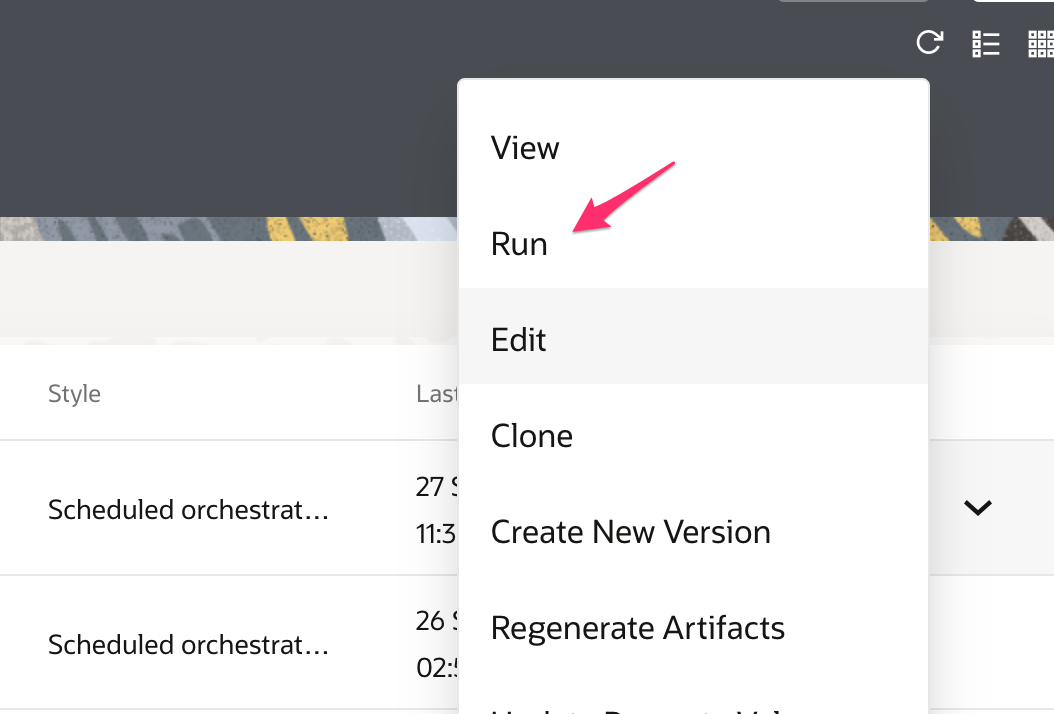
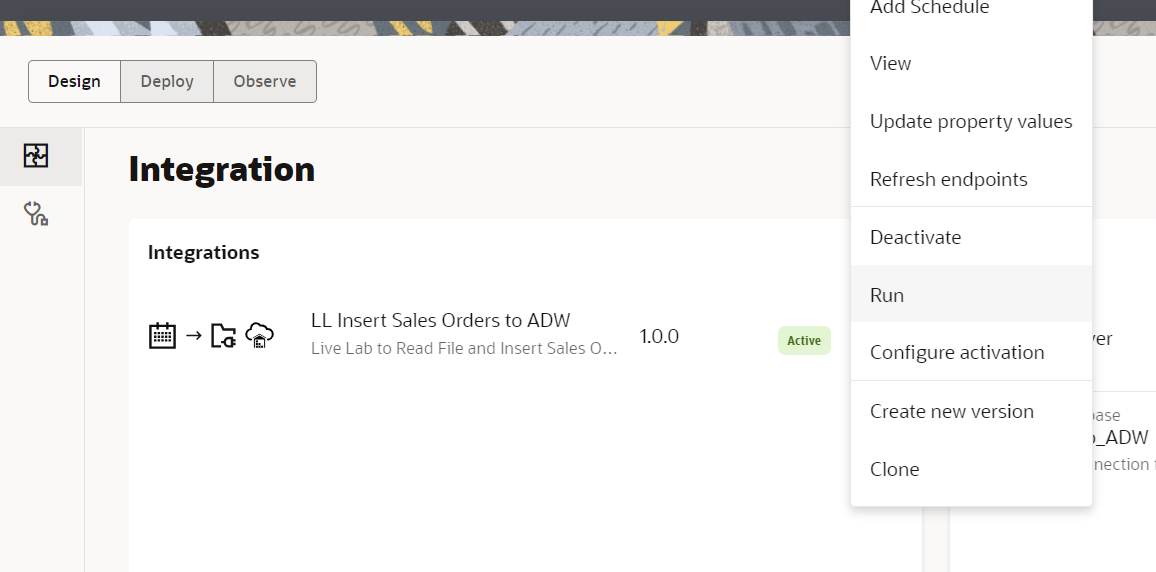
Sep 27 updates
Sep 27 updates

diff --git a/oic-gen3/core-competencies/get-started-oic/introduction/introduction.md b/oic-gen3/core-competencies/get-started-oic/introduction/introduction.md
@@ -2,13 +2,13 @@
 
 ## About this Workshop
 
-In this workshop, we shall talk about provisioning Oracle Integration 3 instance, enabling File Server, provisioning Oracle Autonomous Database and then how to create  connections for File Server and Oracle Autonomous Database using Oracle Integration.
-
 This workshop will walk you through the steps to create an end-to-end integration of reading a file from the File Server and inserting the data set in an Oracle Autonomous Date Warehouse(ADW) Table leveraging out of the box adapters.
 
 ![Integration Architecture](images/get-started-integration-scenario.png)
 
-Estimated Time: 50 minutes
+In this workshop, we shall also talk about provisioning Oracle Integration 3 instance, enabling File Server, provisioning Oracle Autonomous Database but, all of these tasks are optional.
+
+Estimated Time: 40 minutes
 
 ### What is Oracle Integration 3?
 
@@ -32,10 +32,10 @@ Oracle Integration changes all that. It empowers you to:
 
 In this workshop, you will learn how to:
 
-- Provision Oracle Integration 3 in Oracle Cloud Infrastructure
-- How to enable the File Server in Oracle Integration 3 instance.
-- Provision Oracle Autonomous Database in Oracle Cloud Infrastructure
-- Learn several Integrations specific concepts
+- Optional, Provision Oracle Integration 3 in Oracle Cloud Infrastructure
+- Optional, How to enable the File Server in Oracle Integration 3 instance.
+- Optional, Provision Oracle Autonomous Database in Oracle Cloud Infrastructure
+- Optional, Setup required to complete this LiveLab
 - Creating a Project
 - Creating Connections
 - Design a Scheduled Integration Flow

diff --git a/oic-gen3/core-competencies/get-started-oic/create-flow/create-flow.md b/oic-gen3/core-competencies/get-started-oic/create-flow/create-flow.md
@@ -200,14 +200,14 @@ When we added the ADW invoke to the integration, a map icon was automatically ad
 
 ## Task 6: Activate the integration
 
-1. On the *Integrations* page, hover over the integration you created, and click the **Activate** icon
+1. Click on **...** and click the **Activate** icon
     ![Click to Activate Integration](images/click-activate-integration.png)
 
 2. In the *Activate Integration* dialog, select **Debug** as tracing level.
 
 3. Click **Activate**.
 
-    The activation will be complete in a few seconds. Once activation is successful, a status message is displayed in the banner at the top of the page, and the status of the integration changes to *Active*.
+    The activation will be complete in a few seconds. Once activation is successful, the status of the integration changes to *Active* OR try to refresh the page so that you could see the updated status.
 
 You may now **proceed to the next lab**.
 

diff --git a/oic-gen3/core-competencies/get-started-oic/run-demo/run-demo.md b/oic-gen3/core-competencies/get-started-oic/run-demo/run-demo.md
@@ -45,7 +45,7 @@ This lab assumes you have:
 
 Submit an adhoc run of Scheduled Integration Flow
 
-1. From the *Integrations* page, hover over the Integration Flow, click on **...** (Actions) menu, click on **Run** and again click on **Run**.
+1. From the *Projects* page, hover over the Integration Flow, click on **...** (Actions) menu, click on **Run** and again click on **Run**.
 
     ![Run Scheduled Integration Flow](images/run-integration.png)
 
@@ -53,7 +53,7 @@ Submit an adhoc run of Scheduled Integration Flow
 
     ![Cofirmation Window](images/submit-confirmation.png)
 
-    > **Note:**  Alternatively, in the Projects pane, Click on **Observe &gt; Observability &gt; Instances**
+    > **Note:**  Alternatively, in the Projects pane, Click on **Observe &gt; Instances**
 
 3. From the *Instances* page, Click on the Integration Flow.
 

diff --git a/oic-gen3/core-competencies/get-started-oic/create-connections/create-connections.md b/oic-gen3/core-competencies/get-started-oic/create-connections/create-connections.md
@@ -78,7 +78,6 @@ To access the File Server from an Integration, you will need to create an FTP Co
 
 3. Select the **FTP** Adapter.
 4. From the *Create Connection* dialog, *Name* your connection as **File Server** and leave the rest of the configurations as default. Click **Create**
-    > **Note:**  If you get an error that the identifier already exists, change the Connection Name and remember this name for use later in the workshop.
     > **Note:** If you are a Bootcamp user then execute step 5 only and skip other steps.
     If you are a non Bootcamp user then skip step 5 and continue with other steps..
 
